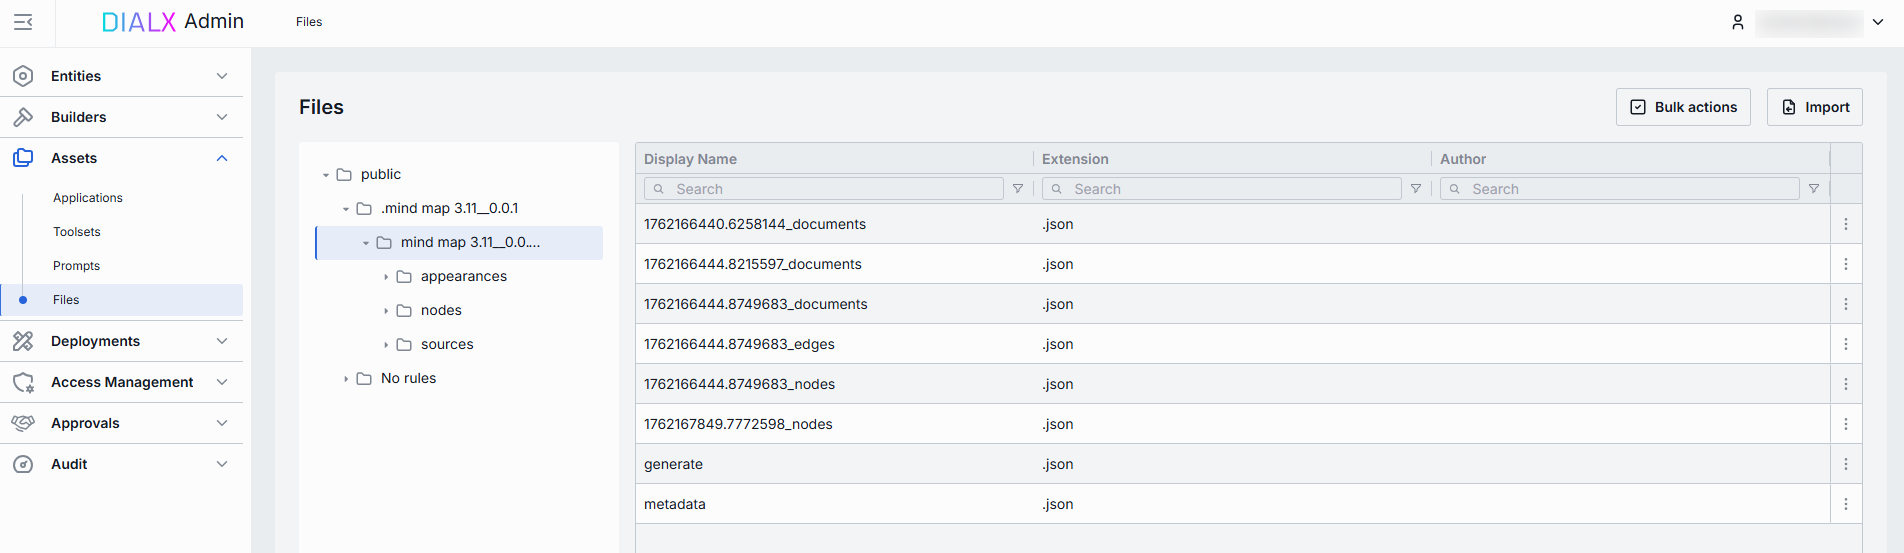
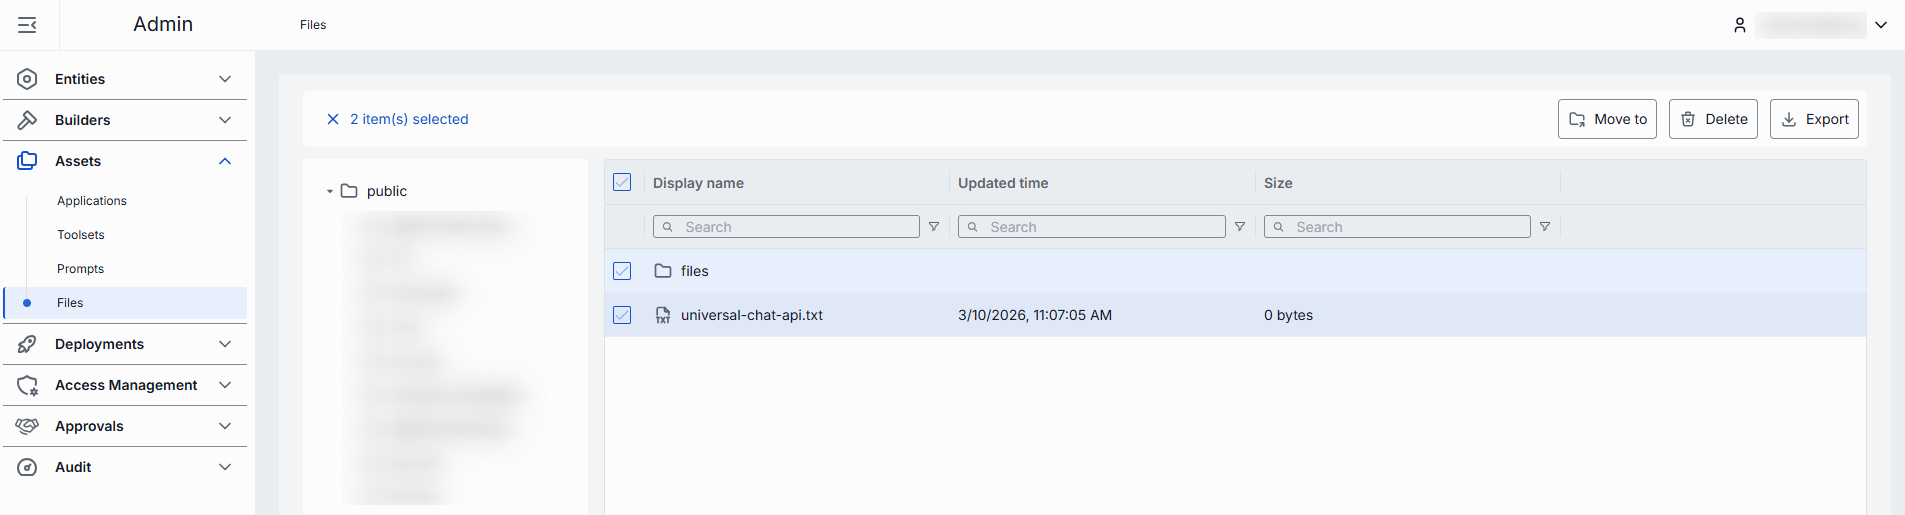
review assets files

diff --git a/docs/tutorials/3.admin/assets-files.md b/docs/tutorials/3.admin/assets-files.md
@@ -2,45 +2,51 @@
 
 ## Introduction
 
-Files in DIAL are arbitrary binary or text assets (JSON, CSV, PDF, images, etc.) which AI models and/or applications can reference at runtime. Files in DIAL can be stored in BLOB storage or a local file system.
+Files in DIAL are arbitrary binary or text assets (JSON, CSV, PDF, images, etc.) which AI models and/or applications can reference at runtime. 
 
-Files are considered to be a protected resource. Refer to [Access Control](/docs/platform/3.core/2.access-control-intro.md) to learn how protected resources are handled in DIAL.
+In DIAL, files added by users (either using [DIAL Core API](https://dialx.ai/dial_api#tag/Files) or [UI File Manager](/docs/tutorials/0.user-guide.md#files)) are stored in a private folder of a dedicated user in the DIAL file storage and are not accessible to anyone but the file author (owner). Files become available to other users and applications when [published](/docs/tutorials/0.user-guide.md#access-to-application-files-1) with applications and conversations that reference them.
+
+DIAL can be configured to store files in a BLOB storage of the selected cloud provider, ensuring scalability and security of your data.
+
+> Files are considered to be a protected resource. Refer to [Access Control](/docs/platform/3.core/2.access-control-intro.md#acls-for-objects) to learn how protected resources are handled in DIAL.
 
 ## Main Screen
 
-In Files, you can view and manage all files located the **Public** folder in the DIAL's file system. Files in the Public folder are files published with applications by end users or manually uploaded by administrators.
+The Assets/Files screen displays all files located in the Public folder in DIAL file storage. Files get to the Public folder when published by users or added by administrators.
 
 > **Note**: This screen, does not give access to private files of users.
 
 ![ ](img/img_35.png)
 
-#### Folders
+##### Public file storage
 
 Objects in the [Public folder](/docs/platform/3.core/2.access-control-intro.md) are arranged hierarchically, similar to a file system. 
 
-- **Root folder**: Pubic is a root folder which can include sub-folders and files. Files in the root folder are visible to all authorized users.
-- **Sub-folders**: Sub-folders can include uploaded files and files of published applications.
+- **Root folder**: Pubic is a root folder with sub-folders. It is visible to all authorized users. If a sub-folder is not specified for the new object being published, it is placed in the root folder by default.
+- **Sub-folders**: Objects can be placed in sub-folders for logical organization purposes - one object per sub-folder is recommended. 
 
 > **Note**, that access rules can be applied to sub-folders (manually or in publication request). You can view and manage access rules in [Folders Storage](/docs/tutorials/3.admin/access-management-folders-storage.md). The effective authorization rule for an object in a sub-folder includes restrictions applied to all parent sub-folders up to the root folder. Refer to [Tutorials](/docs/tutorials/1.developers/1.work-with-resources/0.work-with-publications.md#effective-rules) to learn about affective rules for folders.
 
-You can perform various actions on folders:
-
-| Available Actions | Description |
-|-------------------|-------------|
-| **Add folder** | Use context menu **Add sibling** or **Add child** to add sub-folders. <br />You can also add folders using **Create** control in the toolbar. <br />**Note**: All you can do with a root folder is to add a child sub-folder. |
-| **Actions** | Hover over any folder to view its context menu icon with available actions.<br /> - **Move to**: Use to select a target location in the hierarchy to move the selected folder. <br /> - **Export**: Use to export the content of the folder as a ZIP archive.<br /> - **Rename**: Use to rename the selected folder.<br />- **Manage permissions**: Redirects to [Folder Storage](/docs/tutorials/3.admin/access-management-folders-storage.md) where you can view and manage access rules that apply to the selected folder.<br />- **Delete**: Use to delete the folder with objects inside it. **Note**: Any models or applications that reference files in the removed folder will break until you re-upload valid file(s).|
+Hover over any folder in the right or left panel to display the context menu.
 
 ![ ](img/files-folders-actions.png)
 
-#### Files
-
-Click any folder to display files in it. 
+| Available Actions | Description |
+|-------------------|-------------|
+| **Create sub-folders** |  Use to add new child or sibling sub-folders. |
+| **Move to** | Use to select a target location in the hierarchy to move the selected folder. | 
+| **Export** | Use to download the content of the selected folder with objects inside it as a ZIP archive. |
+| **Rename** | Use to rename the selected folder. | 
+| **Manage permissions** | Redirects to [Folder Storage](/docs/tutorials/3.admin/access-management-folders-storage.md) to manage access to the folder. |
+| **Delete** | Use to delete the folder with objects inside it.|
 
 ##### Files grid
 
+Click any folder to display its content (files and sub-folders)
+
 | Column | Description |
 |--------|-------------|
-| **Display Name** | File name. |
+| **Display Name** | File name displayed on UI. |
 | **Updated time** | Timestamp of the last file update. |
 | **Size** | File size in kilobytes. |
 
@@ -50,35 +56,55 @@ Click any file (or select several files) to see the context menu with available 
 |-------------------|-------------|
 | **Move to** | Use to move the selected file(s) to another folder. |
 | **Export** | Use to download a ZIP archive with the selected file(s).|
+| **Preview** | Use to preview the content of the file. Can be disabled for selected types of files. |
 | **Delete** | Use to delete file(s). <br />**Note**: Any models or applications that reference it will break until you reattach a valid file. |
 
 ![ ](img/files-actions2.png)
 
-## To import files
+## Export 
 
-Click **Create --> File** in the toolbar to upload files.
+You can download selected files or folders as a ZIP archive.
 
-![](img/import-files.png)
+To export, make a selection and click **Export** in the toolbar. You can also access the Export button in the context menu of each file or folder.
 
-##### To import files:
+![ ](img/assets-files-export.png)
 
-1. Click **Create** in the toolbar  and select **File** to invoke the import modal.
-2. Select the type of files you want to import. Drag & drop files or an archive into the drop zone, or click **Browse** to open your local file browser.
-    * **Archive** (single ZIP file). Only 1 archive file can be imported at a time.
-    * **Separate Files** (up to 30 individual files). Each file must be ≤ 512 MB.
-3. Once files appear in the list, click **Next** to proceed.
-4. Resolve any conflicts by choosing a strategy for handling files with the same name and path:
-   * **Override**: Replace existing files with the new ones.
+## Import Files
+
+Use the **Add** dropdown in the toolbar to add new folders or files.
+
+![ ](img/assets-files-add.png)
+
+1. Click **Add** in the toolbar and select **Files** to invoke the **Import Files** modal.
+2. You can choose to import a ZIP archive or separate files. **Note**: Up to 30 files can be imported at once. Each file must be ≤ 512 MB. Only 1 archive can be imported at a time.
+3. Use **Ignore paths** toggle to skip folder structure from the imported files. When enabled, all files will be imported directly into the root folder without recreating the original folder hierarchy.
+4. Add file either by dragging them into the window or using file browser.
+5. Click **Next** to select a conflict resolution strategy. It allows you to decide how to handle existing prompts with the same name and version in your workspace:
    * **Skip**: Do not import conflicting files and keep existing files unchanged.
-   * **Edit manually**: Rename incoming files one by one to avoid conflicts. Each conflicting file is flagged with red color and becomes editable - update its **Name** to avoid conflicts.
-5. Use **Ignore paths** toggle to skip folder structure from the imported files. When enabled, all files will be imported directly into the root folder without recreating the original folder hierarchy.
-6. Once all conflicts are resolved, click **Finish** to complete the import.
+   * **Override**: Replace files with the same name and version with the imported ones.
+   * **Edit manually**: Rename incoming files one by one to avoid conflicts. Each conflicting file is flagged with red color and becomes editable - update its Name to avoid conflicts.
+6. Click **Finish** to start.
 
-    ![](img/img_51.png)
+![ ](img/assets-files-import-file.png)
 
-<!-- ## Properties
+## Add Folders
 
-Click any file to open the Properties screen. In Properties, you can view files metadata, download, delete or move file across folders.
+You can add new child or sibling folders to the hierarchy using the context menu of each folder. 
 
-![](img/file-properties.png) -->
+![ ](img/assets-files-folder-actions.png)
 
+You can also navigate to a specific folder and use the **Add** dropdown in the toolbar to add sub-folders.
+
+![ ](img/assets-files-add-folder.png)
+
+## Delete 
+
+There are several ways to delete a file:
+
+> **Note**: Any applications that reference it will break until you reattach a valid file.
+
+* Select one of several files/folders and click **Delete** in the toolbar.
+* Use the **Delete** option in the file/folder context menu.
+* To delete a file, you can delete the related folder where the file is located.
+
+![ ](img/assets-files-delete.png)

diff --git a/docs/tutorials/3.admin/assets-prompts.md b/docs/tutorials/3.admin/assets-prompts.md
@@ -11,6 +11,11 @@ In DIAL, prompts created by users (either using [DIAL Core API](https://dialx.ai
 
 The Assets/Prompts screen displays all prompts located in the Public folder in DIAL file storage. Prompts get to the Public folder when published by users or added by administrators.
 
+> **Note**: This screen, does not give access to private prompts of users.
+
+> * Refer to [Access Control](/docs/platform/3.core/2.access-control-intro.md) to learn more about Private and Public logical spaces for objects storage in DIAL.
+> * Refer to [Chat User Guide](/docs/tutorials/0.user-guide.md#publish-1) to learn how end users can publish prompts and to [DIAL Core API Publications](https://dialx.ai/dial_api#tag/Publications) to learn how to create and manage publication requests via API.
+
 ![ ](img/img_32.png)
 
 ##### Public file storage
@@ -41,7 +46,9 @@ Click any folder in the hierarchy to display prompts stored in it.
 | **Updated time** | The timestamp of the last modification of the prompt. |
 | **Actions** | Actions you can perform on the selected prompt:<br />- **Open in new tab**: Opens the prompt's properties in a new tab.<br />- **Move to another folder**: Select a target folder in the hierarchy to move the prompt.<br />- **Delete**: Remove the prompt. You can also use **Bulk Actions** in the toolbar to delete multiple prompts at once.<br />- **Duplicate**: Create a copy of the prompt in one of two ways:<br />**New version**: Creates another version of the selected prompt. You can also quickly add a new version on the [Properties](#properties) screen by clicking **Create** in the **Version** dropdown.<br />**New prompt**: Clones the selected prompt as a new one. |
 
-#### Export
+![ ](img/assets-prompts-actions.png)
+
+## Export
 
 Use **Bulk Actions** in the toolbar to bulk download prompts. This is useful for migrating prompts between environments, sharing sets of prompts with other users, or keeping a point-in-time backup.
 
@@ -57,7 +64,7 @@ Use **Bulk Actions** in the toolbar to bulk download prompts. This is useful for
 
    ![ ](img/img_47_1.png)
 
-#### Import
+## Import
 
 Use **Import** in the toolbar to upload new or update existing prompts from external JSON files or ZIP archive. This is essential for migrating, restoring, or sharing prompt assets between DIAL users.
 
@@ -76,7 +83,7 @@ Use **Import** in the toolbar to upload new or update existing prompts from exte
 4. Use **Ignore paths** toggle to skip folder structure from the imported files. When enabled, all prompts will be imported directly into the root folder without recreating the original folder hierarchy.
 5. Click **Finish** to start.
 
-#### Create
+## Create
 
 Follow these steps to add a new prompt to the Public folder:
 
@@ -94,7 +101,7 @@ Follow these steps to add a new prompt to the Public folder:
 
    ![](img/img_33.png)
 
-#### Delete
+## Delete
 
 There are several ways to delete a prompt or a specific version of it:
 

diff --git a/docs/tutorials/3.admin/assets-toolsets.md b/docs/tutorials/3.admin/assets-toolsets.md
@@ -12,6 +12,8 @@ In DIAL, toolsets created by users (either using DIAL Core API or UI) are stored
 
 The Assets/Toolsets screen displays all toolsets located in the Public folder in DIAL file storage. Toolsets get to the Public folder when published by users or added by administrators.
 
+> **Note**: This screen, does not give access to private toolsets of users.
+
 > * Refer to [Access Control](/docs/platform/3.core/2.access-control-intro.md) to learn more about Private and Public logical spaces for objects storage in DIAL.
 > * Refer to [Chat User Guide](/docs/tutorials/0.user-guide.md#to-publish-toolset) to learn how end users can publish toolsets and to [DIAL Core API Publications](https://dialx.ai/dial_api#tag/Publications) to learn how to create and manage publication requests via API.
 
@@ -44,6 +46,8 @@ Click any folder to display its content in the toolsets grid.
 | **Author** | Username or system ID associated with the user who created or last updated this toolset. |
 | **Updated time** | Timestamp of the last update. |
 | **Actions** | Actions you can perform on the selected toolset:<br />- **Open in new tab**: Opens the toolset's properties, features, and parameters in a new tab.<br />- **Move to another folder**: Select a target folder in the hierarchy to move the toolset.<br />- **Delete**: Remove the toolset. You can also use **Bulk Actions** in the toolbar to delete multiple toolsets at once.<br />- **Duplicate**: Create a copy of the toolset in one of two ways:<br />**New version**: Creates another version of the selected toolset. You can also quickly add a new version on the [Configuration](#configuration) screen by clicking **Create** in the **Version** dropdown.<br />**New toolset**: Clones the selected toolset as a new one. |
+
+![ ](img/assets-toolsets-actions.png)
 
 ## Export
 

diff --git a/docs/tutorials/3.admin/assets-applications.md b/docs/tutorials/3.admin/assets-applications.md
@@ -10,6 +10,8 @@ In DIAL, applications created by users (either using DIAL Core API or UI) are st
 
 The Assets/Applications screen displays all applications located in the Public folder in DIAL file storage. Applications get to the Public folder when published by users or added by administrators.
 
+> **Note**: This screen, does not give access to private applications of users.
+
 > * Refer to [Access Control](/docs/platform/3.core/2.access-control-intro.md) to learn more about Private and Public logical spaces for objects storage in DIAL.
 > * Refer to [Chat User Guide](/docs/tutorials/0.user-guide.md#publish-2) to learn how end users can publish applications and to [DIAL Core API Publications](https://dialx.ai/dial_api#tag/Publications) to learn how to create and manage publication requests via API.
 
